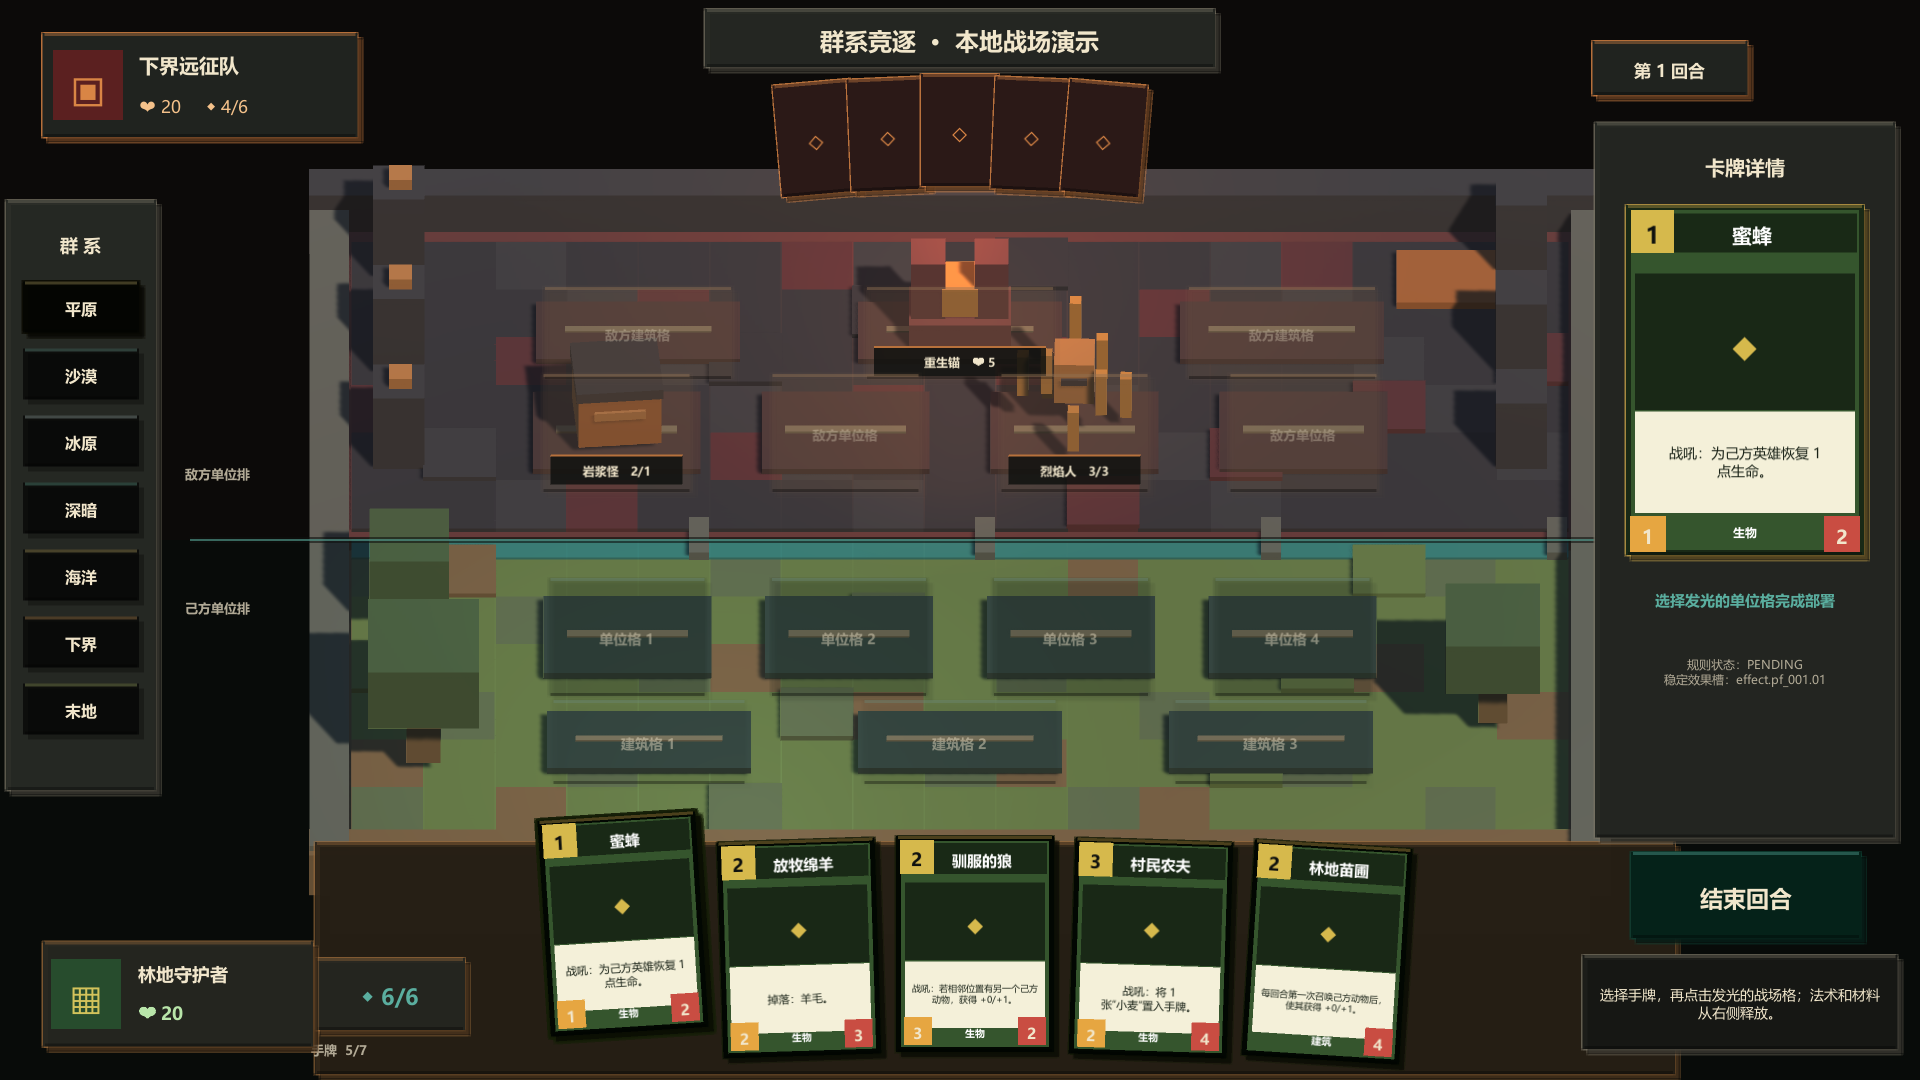
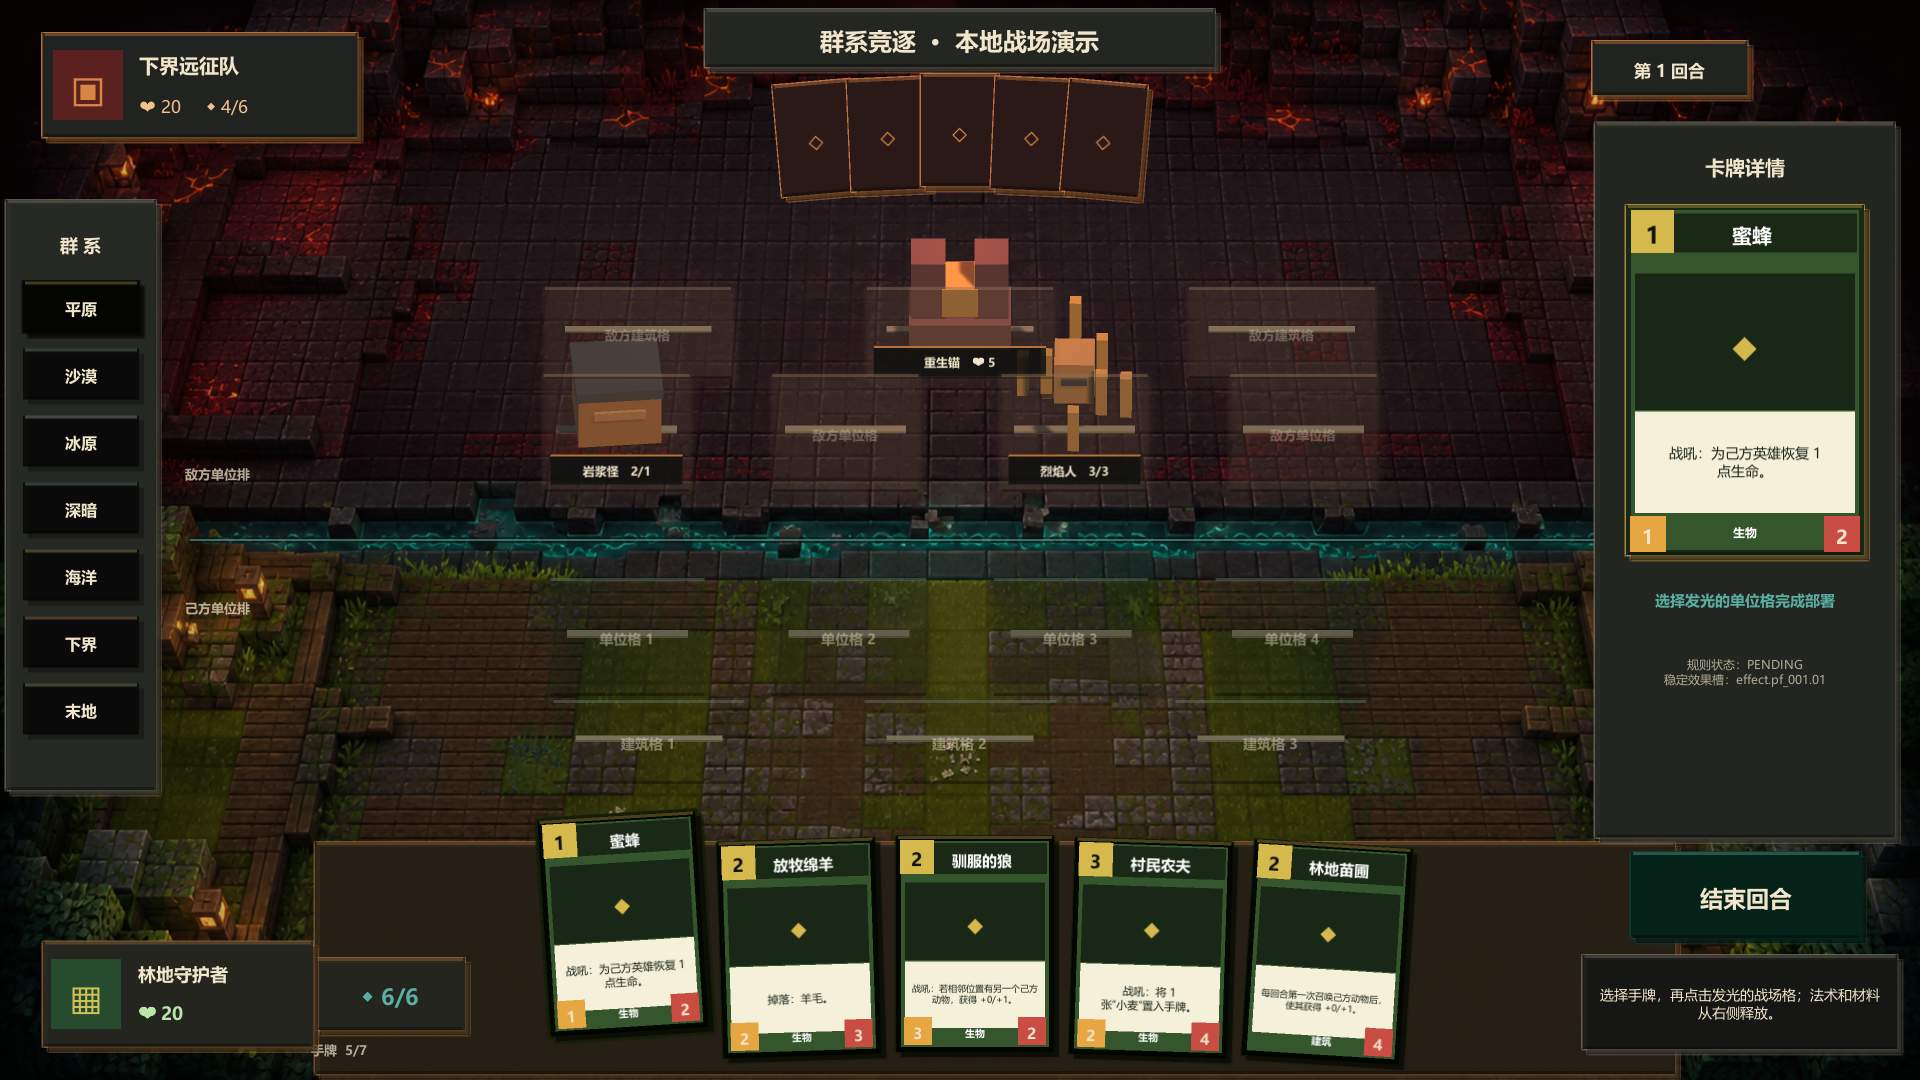
fix: preserve illustrated battlefield in 2.5d scene

diff --git a/client-unity/Assets/Game/Demo/Runtime/DemoBattlefield3D.cs b/client-unity/Assets/Game/Demo/Runtime/DemoBattlefield3D.cs
@@ -20,6 +20,8 @@ namespace BiomeRivals.Demo
         private readonly Dictionary<string, Material> _materials = new Dictionary<string, Material>(StringComparer.Ordinal);
         private readonly List<Floater> _floaters = new List<Floater>();
         [SerializeField] private Shader blockShader;
+        [SerializeField] private Shader backdropShader;
+        [SerializeField] private Texture2D illustratedBackdrop;
         private Transform _terrainRoot;
         private Transform _piecesRoot;
         private Camera _camera;
@@ -28,7 +30,12 @@ namespace BiomeRivals.Demo
 
         public Camera BoardCamera => _camera;
 
-        public void Configure(Shader shader) => blockShader = shader;
+        public void Configure(Shader worldShader, Shader unlitBackdropShader, Texture2D backdrop)
+        {
+            blockShader = worldShader;
+            backdropShader = unlitBackdropShader;
+            illustratedBackdrop = backdrop;
+        }
 
         public void BuildNow()
         {
@@ -37,9 +44,10 @@ namespace BiomeRivals.Demo
             CreateRoots();
             CreateMaterials();
             ConfigureWorld();
-            BuildTerrain();
+            BuildIllustratedBackdrop();
+            if (illustratedBackdrop == null) BuildTerrain();
             BuildSlotPads();
-            BuildBiomeDecor();
+            if (illustratedBackdrop == null) BuildBiomeDecor();
         }
 
         public Vector3 GetSlotWorldPosition(bool player, DemoSlotKind kind, int index)
@@ -174,6 +182,34 @@ namespace BiomeRivals.Demo
             CreatePointLight("MeadowFill", new Vector3(-3.5f, 4.8f, -4.5f), Hex("#8FC7B7"), 8f, 1.25f);
         }
 
+        private void BuildIllustratedBackdrop()
+        {
+            if (illustratedBackdrop == null) return;
+            if (backdropShader == null) throw new MissingReferenceException("The illustrated battlefield backdrop shader is not configured.");
+            RenderSettings.fog = false;
+
+            var material = new Material(backdropShader) { name = "DemoIllustratedBattlefield" };
+            material.mainTexture = illustratedBackdrop;
+            _materials["illustrated_backdrop"] = material;
+
+            var quad = GameObject.CreatePrimitive(PrimitiveType.Quad);
+            quad.name = "IllustratedBattlefieldBackdrop";
+            quad.transform.SetParent(_camera.transform, false);
+            quad.transform.localPosition = new Vector3(0, 0, 45f);
+            quad.transform.localRotation = Quaternion.identity;
+            quad.transform.localScale = new Vector3(_camera.orthographicSize * 2f * _camera.aspect, _camera.orthographicSize * 2f, 1f);
+            var renderer = quad.GetComponent<MeshRenderer>();
+            renderer.sharedMaterial = material;
+            renderer.shadowCastingMode = ShadowCastingMode.Off;
+            renderer.receiveShadows = false;
+            var collider = quad.GetComponent<Collider>();
+            if (collider != null)
+            {
+                if (Application.isPlaying) Destroy(collider);
+                else DestroyImmediate(collider);
+            }
+        }
+
         private void CreatePointLight(string name, Vector3 position, Color color, float range, float intensity)
         {
             var lightObject = new GameObject(name, typeof(Light));
@@ -240,7 +276,8 @@ namespace BiomeRivals.Demo
         {
             var position = GetSlotWorldPosition(player, kind, index);
             var material = player ? _materials["player_slot"] : _materials["enemy_slot"];
-            CreateBlock(_terrainRoot, $"{(player ? "Player" : "Opponent")}_{kind}_{index}", position, size, material);
+            if (illustratedBackdrop == null)
+                CreateBlock(_terrainRoot, $"{(player ? "Player" : "Opponent")}_{kind}_{index}", position, size, material);
             CreateBlock(_terrainRoot, "SlotMark", position + new Vector3(0, 0.065f, 0), new Vector3(size.x * 0.72f, 0.035f, size.z * 0.08f), _materials["slot_edge"]);
         }
 

diff --git a/client-unity/Assets/Game/Demo/Editor/DemoSceneBuilder.cs b/client-unity/Assets/Game/Demo/Editor/DemoSceneBuilder.cs
@@ -9,6 +9,7 @@ namespace BiomeRivals.Demo.Editor
     public static class DemoSceneBuilder
     {
         public const string ScenePath = "Assets/Game/Demo/Scenes/Demo.unity";
+        public const string BackgroundPath = "Assets/Game/Demo/Art/demo-battlefield-bg-v1.png";
 
         [MenuItem("Biome Rivals/Build and Open Demo Scene")]
         public static void BuildAndOpen()
@@ -33,7 +34,11 @@ namespace BiomeRivals.Demo.Editor
             var battlefield = root.AddComponent<DemoBattlefield3D>();
             var blockShader = Shader.Find("Standard") ?? Shader.Find("Universal Render Pipeline/Lit");
             if (blockShader == null) throw new MissingReferenceException("A tracked block shader is required by the 2.5D demo.");
-            battlefield.Configure(blockShader);
+            var backdropShader = Shader.Find("Unlit/Texture");
+            if (backdropShader == null) throw new MissingReferenceException("The unlit backdrop shader is required by the 2.5D demo.");
+            var backdrop = AssetDatabase.LoadAssetAtPath<Texture2D>(BackgroundPath);
+            if (backdrop == null) throw new FileNotFoundException("The illustrated battlefield backdrop is missing.", BackgroundPath);
+            battlefield.Configure(blockShader, backdropShader, backdrop);
             root.AddComponent<DemoSceneController>();
 
             if (!EditorSceneManager.SaveScene(scene, ScenePath))

diff --git a/docs/design/Demo_UI_Design_v0.1.md b/docs/design/Demo_UI_Design_v0.1.md
@@ -29,14 +29,14 @@
 
 | 层级 | 职责 | 替换边界 |
 |---|---|---|
-| `DemoBattlefield3D` | 摄像机、灯光、上下群系地形、中央河道和世界槽位 | 后续可把逐块原型替换为合并网格或预制棋盘 |
+| `DemoBattlefield3D` | 摄像机、灯光、精绘环境层、3D 世界槽位和单位 | 精绘背景负责整体材质质量，真实几何负责交互、遮挡和动画 |
 | `DemoWorldAssetProvider` | 加载本机方块贴图与按 `cardId` 注册的 Prefab | 正式素材不应侵入回合和卡牌规则代码 |
 | `DemoSceneController` | 手牌、检查器、点击热区和世界坐标到 UI 坐标投影 | 保持屏幕空间布局和输入职责 |
 | `DemoLocalMatch` | 费用、槽位、连续建筑与回合状态 | 不访问场景对象或渲染组件 |
 
 本机原型贴图通过 `scripts/extract-minecraft-world-textures.ps1` 从已拥有的 Java 客户端 JAR 按 17 项白名单提取到 Git 忽略目录。运行时先查找 `Resources/DemoWorld/Prefabs/{cardId}`；不存在时才生成程序化方块生物/建筑。因此以后注册正式 Prefab 不需要改部署逻辑。
 
-当前地形为了快速验证仍采用逐块 GameObject。进入性能阶段后，应把静态地面合并为少量 Mesh，保留材质实例化，并让槽位、单位和建筑继续保持独立对象。
+默认场景采用“精绘背景 + 真实 3D 槽位/单位”的 2.5D 合成方式，不再用低精度程序化地形覆盖原有美术。程序化方块地形仅作为背景资源缺失时的可运行后备。进入性能阶段后，槽位之外的静态装饰应合并为少量 Mesh，单位和建筑继续保持独立对象。
 
 ## 素材与版权边界
 
@@ -53,6 +53,6 @@
 
 > Use case: stylized-concept. Asset type: 16:9 Unity digital card-game battlefield background. Create a polished empty block-built arena for a collectible card game. The upper half is a restrained Nether-like volcanic biome with dark basalt bricks, deep crimson accents, tiny controlled ember cracks and warm orange edge light. The lower half is a meadow-and-forest biome with dark oak planks, mossy stone, grass and subtle leaf details. Separate the halves with a narrow neutral deepslate lane and a faint turquoise river/rune accent. The arena must support overlay UI for four unit slots and three building slots on each side, but do not draw literal card slots; use subtle floor rhythm and material changes only. Upper and lower terrain geometry may differ organically while retaining balanced competitive readability. Style/medium: shippable modern digital card game environment, elegant blocky voxel-inspired materials, crisp game UI backdrop, restrained premium polish, not a screenshot and not concept sketch. Composition/framing: wide 16:9, straight-on shallow top-down view, perfectly centered central lane, large calm empty play areas, darkened outer edges reserved for HUD and buttons. Lighting/mood: controlled soft cinematic lighting, upper warm ember glow, lower cool natural moonlight, strong readable separation, no visual noise behind cards. Color palette: charcoal, deep crimson, ember orange, forest green, oak brown, muted turquoise. Constraints: absolutely no text, letters, numbers, logos, characters, creatures, cards, UI buttons, item icons, trademarks or watermark; no recognizable copied game interface; keep the central play surfaces uncluttered and high contrast for overlay elements. Avoid: busy scenery, tall objects blocking play space, excessive lava glow, photorealism, fisheye perspective, ornate fantasy filigree.
 
-历史概念背景：`client-unity/Assets/Game/Demo/Art/demo-battlefield-bg-v1.png`。2.5D 版本已解除运行时引用，仅保留为设计对照。
+精绘环境层：`client-unity/Assets/Game/Demo/Art/demo-battlefield-bg-v1.png`。2.5D 版本保留它作为默认环境质感来源，并在其上叠加真实 3D 槽位、生物与建筑。
 
 实际运行预览：[`assets/demo-runtime-preview-v1.png`](assets/demo-runtime-preview-v1.png)
